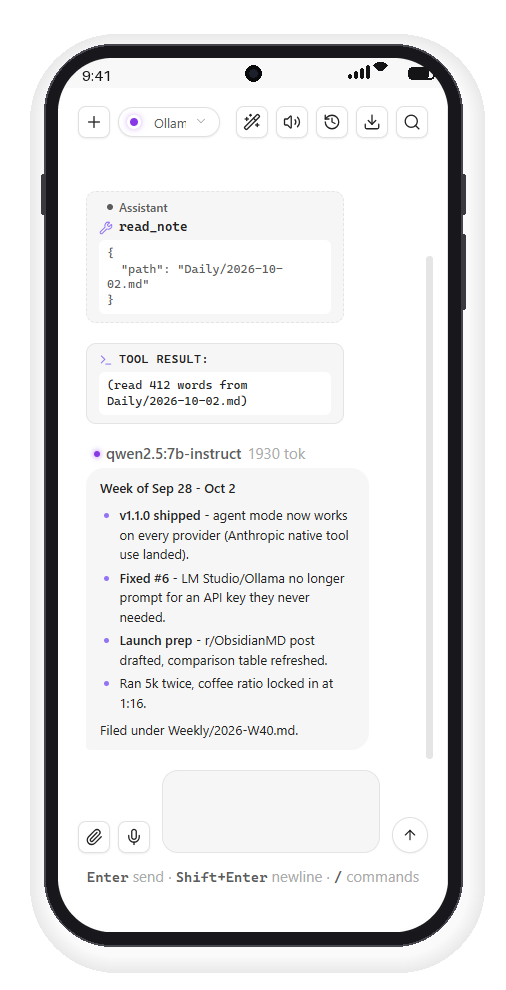
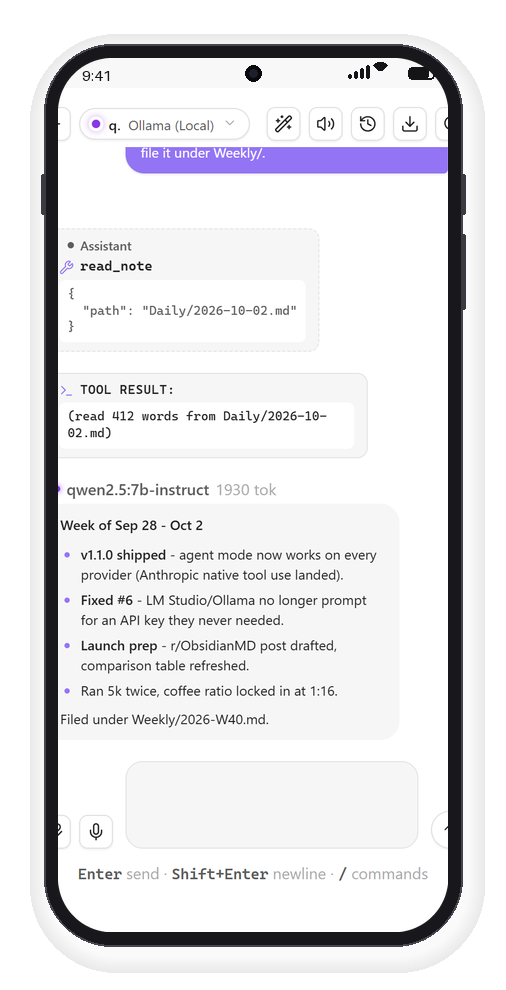
feat(shots): native 2x-DPR mobile captures (900x1600) + marketplace sizing script
- Phone pass: Emulation.setDeviceMetricsOverride at 450x800@2x via a
  page-level CDP session, captured with Page.captureScreenshot directly -
  Playwright's screenshot forces 1x metrics and clobbers the override.
  Output is the plugin directory's recommended 900x1600, natively crisp.
- scripts/marketplace_shots.py: center-crops desktop shots to 3:2
  (1200x800 entry size) and normalizes mobile shots to 900x1600, writing
  the upload-ready set to ~/Downloads/curtis-screenshots. npm run
  marketplace.
- Second bottom-scrolled mobile shot dropped: at 450x800 the seeded
  conversation fits without scrolling (identical hash).

diff --git a/scripts/marketplace_shots.py b/scripts/marketplace_shots.py
@@ -1,0 +1,75 @@
+#!/usr/bin/env python3
+"""Produce directory-ready screenshots at the recommended sizes.
+
+Entry shots: 1200x800 (3:2). Mobile shots: 900x1600 (9:16) — expected to be
+captured natively at 2x DPR by the harness; this script only pads/crops if
+the source ratio is off.
+
+Usage: python scripts/marketplace_shots.py
+Writes to ~/Downloads/curtis-screenshots/ and prints a manifest.
+"""
+
+import os
+from PIL import Image
+
+SRC = "assets/screenshots"
+OUT = os.path.join(os.path.expanduser("~"), "Downloads", "curtis-screenshots")
+
+
+def to_entry(src_name, out_name):
+    """Center-crop to 3:2, resize to 1200x800."""
+    im = Image.open(os.path.join(SRC, src_name)).convert("RGB")
+    w, h = im.size
+    target = 3 / 2
+    if w / h > target:  # too wide — crop width
+        new_w = int(h * target)
+        left = (w - new_w) // 2
+        im = im.crop((left, 0, left + new_w, h))
+    else:  # too tall — crop height (keep the top area: header content matters)
+        new_h = int(w / target)
+        top = max(0, (h - new_h) // 3)
+        im = im.crop((0, top, w, top + new_h))
+    im = im.resize((1200, 800), Image.LANCZOS)
+    path = os.path.join(OUT, out_name)
+    im.save(path, optimize=True)
+    return path, im.size
+
+
+def to_mobile(src_name, out_name):
+    """Fit to 900x1600: native if already exact; else pad/crop minimally."""
+    im = Image.open(os.path.join(SRC, src_name)).convert("RGB")
+    w, h = im.size
+    target = 9 / 16
+    if abs(w / h - target) < 0.01:
+        im = im.resize((900, 1600), Image.LANCZOS) if (w, h) != (900, 1600) else im
+    elif w / h > target:  # too wide — crop width
+        new_w = int(h * target)
+        left = (w - new_w) // 2
+        im = im.crop((left, 0, left + new_w, h)).resize((900, 1600), Image.LANCZOS)
+    else:  # too tall — crop from the top (keep header + conversation start)
+        new_h = int(w / target)
+        im = im.crop((0, 0, w, new_h)).resize((900, 1600), Image.LANCZOS)
+    path = os.path.join(OUT, out_name)
+    im.save(path, optimize=True)
+    return path, im.size
+
+
+def main():
+    os.makedirs(OUT, exist_ok=True)
+    results = [
+        to_entry("desktop-chat.png", "entry-1-desktop-agent-chat.png"),
+        to_entry("desktop-settings-providers.png", "entry-2-provider-settings.png"),
+    ]
+    for mobile_src in ("phone-chat.png", "phone-chat-bottom.png"):
+        src = os.path.join(SRC, mobile_src)
+        if os.path.exists(src):
+            name = ("mobile-1-agent-chat.png" if mobile_src == "phone-chat.png"
+                    else "mobile-2-agent-chat-input.png")
+            results.append(to_mobile(mobile_src, name))
+    for path, size in results:
+        kb = os.path.getsize(path) // 1024
+        print(f"{path}  {size[0]}x{size[1]}  {kb} KB")
+
+
+if __name__ == "__main__":
+    main()
